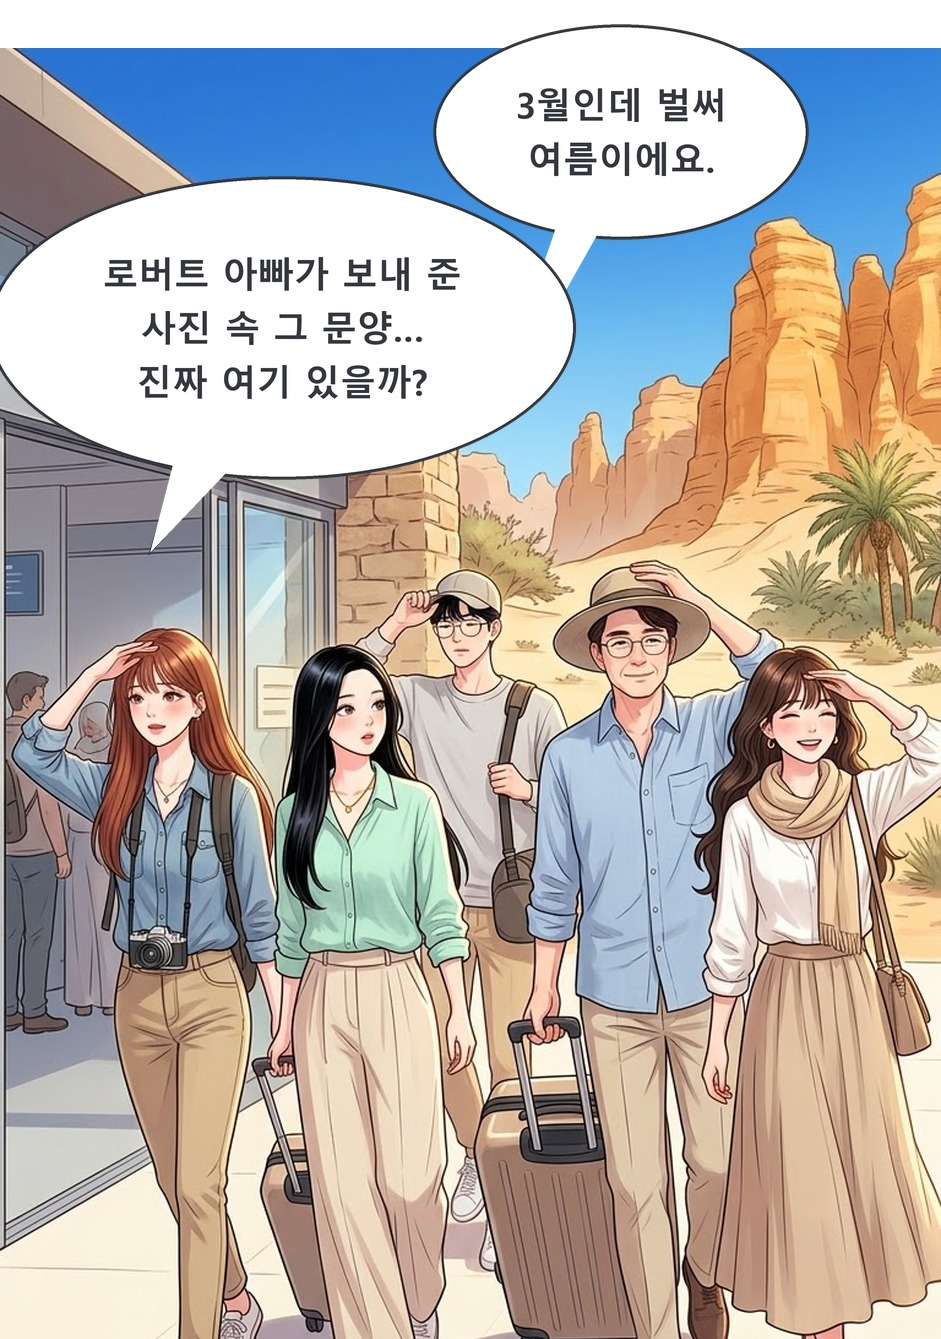
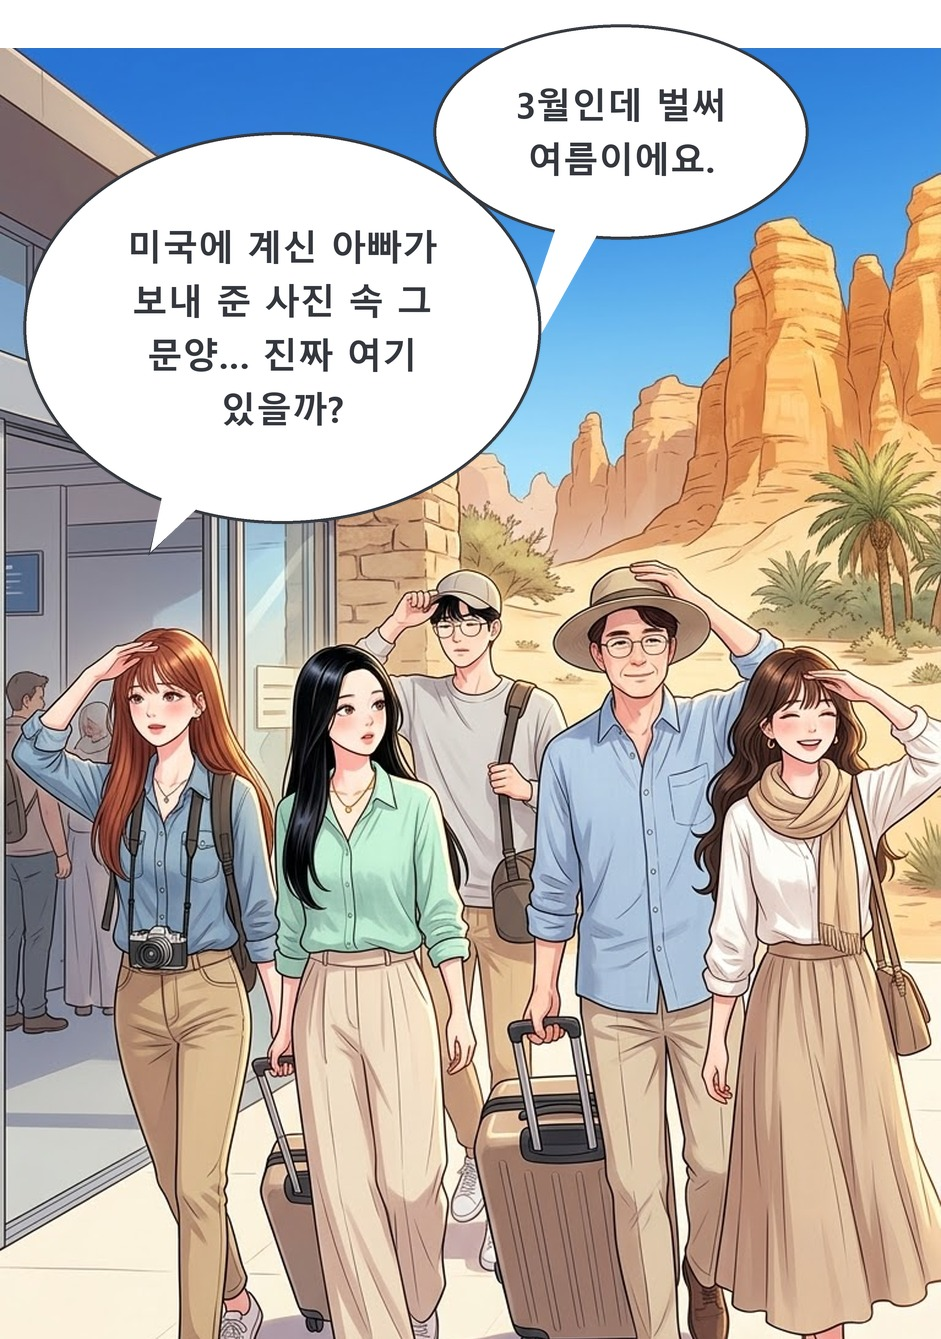
fix: 시즌2 7화 3컷 미래 대사 '미국에 계신 아빠가'

Changed region(s): [[0.0, 0.0919, 0.5547, 0.3981], [0.5547, 0.1837, 0.6164, 0.3062]]

diff --git a/index.html b/index.html
@@ -61,7 +61,7 @@ footer{text-align:center;color:var(--muted);font-size:12px;padding:24px 16px 40p
 <nav id="nav"></nav>
 <main id="main"></main>
 <footer>여호수아 시즌1은 기존 Joshua-story 사이트에서 열립니다.</footer>
-<script src="data.js?v=202610211727"></script>
+<script src="data.js?v=202610211932"></script>
 <script>
 const esc = s => String(s).replace(/[&<>"]/g, c => ({'&':'&amp;','<':'&lt;','>':'&gt;','"':'&quot;'}[c]));
 const nav = document.getElementById('nav'), main = document.getElementById('main');

diff --git a/viewer.html b/viewer.html
@@ -41,7 +41,7 @@ select{font:inherit;font-size:13px;padding:4px 6px;border:1px solid var(--line);
   <p id="endNote"></p>
   <div class="nav" id="nav"></div>
 </div>
-<script src="data.js?v=202610211727"></script>
+<script src="data.js?v=202610211932"></script>
 <script>
 const sid = new URLSearchParams(location.search).get('s') || 'pureday';  // 2026-10-20 시즌2 카드
 const s = window.PORTAL.series.find(x => x.id === sid) || window.PORTAL.series.find(x => x.id === 'pureday');
